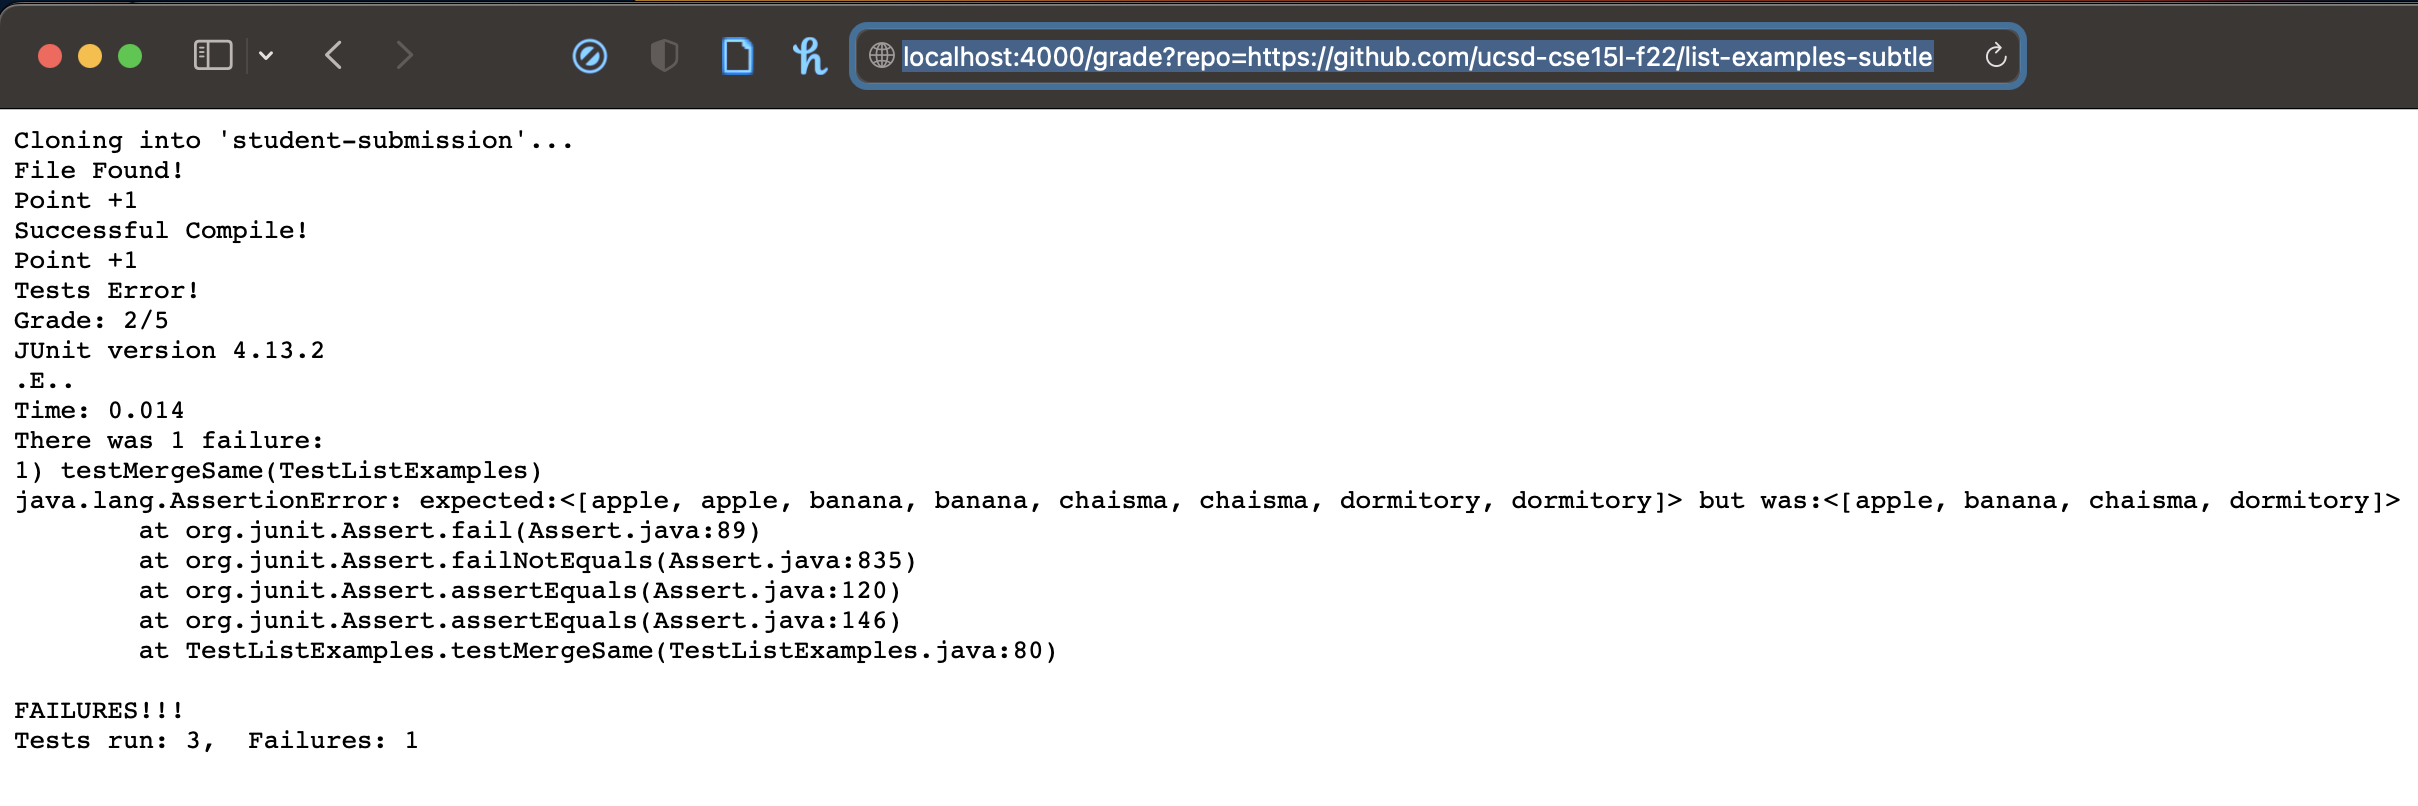
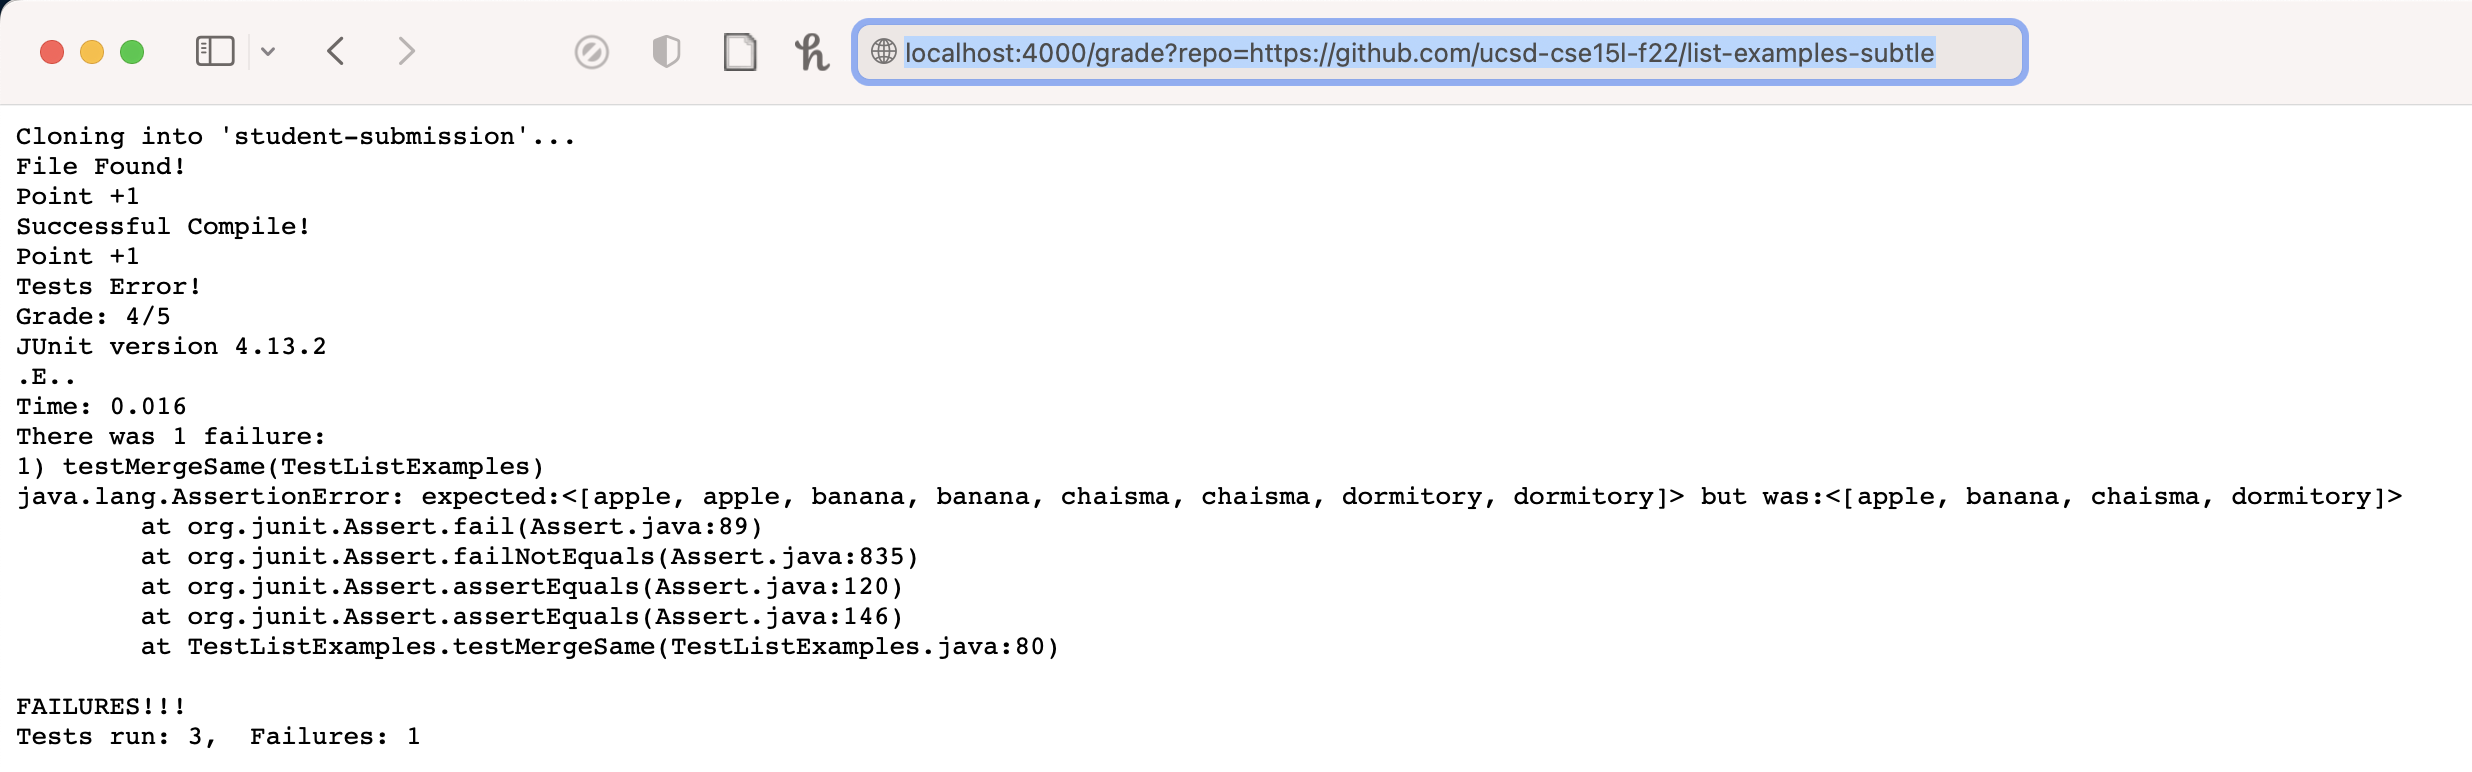
change

Changed region(s): [[0.0, 0.0, 1.0, 0.8705], [0.0, 0.8705, 0.1551, 0.9637]]

diff --git a/week-9-lab-report.md b/week-9-lab-report.md
@@ -50,7 +50,7 @@ then
     exit
 else
     FAILURE=$(grep "There " results.txt | grep -Eo "[1-3]")
-    PASSED="$((3 - $FAILURE))"
+    PASSED="$((5 - $FAILURE))"
     echo "Tests Error!"
     echo "Grade: $PASSED/5"
     cat results.txt
@@ -58,4 +58,130 @@ else
 fi
 
 ```
+
+### Example 1 
+
+Corrected Version:
+
+https://github.com/ucsd-cse15l-f22/list-methods-corrected
+
+![Image](lab5_1.png)
+
+### Example 2
+
+Compile Error:
+
+https://github.com/ucsd-cse15l-f22/list-methods-compile-error
+
+![Image](lab5_2.png)
+
+### Example 3
+
+Failed Tests:
+
+https://github.com/ucsd-cse15l-f22/list-examples-subtle
+
+![Image](lab5_3.png)
+
+## The Trace
+
+We will trace through the Example 3.
+
+For the first few lines:
+
+```
+
+rm -rf student-submission
+
+mkdir student-submission
+
+git clone $1 student-submission
+
+cp TestListExamples.java student-submission
+cd student-submission
+
+```
+
+We are just deleting the "student-submission" directory and recreating it so we can put a new student submission in to be graded. We also are copying our TestListExamples.java file into the folder which contains our tests for the student mission. Their stdout and stderr would both be empty. The return code, since these lines run wihout an error, would be 0.
+
+Moving on to these lines:
+
+```
+
+if [[ -f ListExamples.java ]];
+then 
+    echo "File Found!"
+    echo "Point +1"
+else
+    echo "File Not Found!"
+    echo "Grade: 0/5"
+    exit 1
+fi
+
+```
+
+Since this student submission contains the correctly named file (ListExamples.java), the if-statment is true. "File Found!" and "Point +1" would both be echoed. The else-part would not run because the file is found, which fulfills our if-statement condition. The stdout for each of the the echo command would be "File Found!" and "Point +1" accordingly. Their stderr would be empty. Their return codes would also be 0 since they were successful echoes.
+
+Moving on to the compiling stage:
+
+```
+
+javac -cp $CPATH *.java
+
+if [[ $? -eq 0 ]]
+then
+    echo "Successful Compile!"
+    echo "Point +1"
+else
+    echo "Compile Error!"
+    echo "Grade: 1/5"
+    exit 2
+fi
+
+```
+
+In this student-submission, the file compiled successfully. Hence, the return code would be 0. The stdout and stderr would both be empty since we are just compiling.
+
+Since we have successfully compiled the file, and the exit code is 0, the if-statment is true. "Successful Compile!" and "Point +1" would both be echoed. The stdout for each of the echo command would be what it is echoing. Their stderr would be empty. The return code for each echo command would be 0. Because the if-statment is true (from the successful compiling), the else-block would not be run.
+
+To the tests:
+
+```
+
+java -cp $CPATH org.junit.runner.JUnitCore TestListExamples > results.txt 
+
+if [[ $? -eq 0 ]]
+then
+    echo "All Tests Passed!"
+    echo "Grade: 5/5"
+    exit
+else
+    FAILURE=$(grep "There " results.txt | grep -Eo "[1-3]")
+    PASSED="$((5 - $FAILURE))"
+    echo "Tests Error!"
+    echo "Grade: $PASSED/5"
+    cat results.txt
+    exit 3
+fi
+
+```
+
+We are running the file with the java command, and are redirecting its stdout to results.txt, which contains what will be printed on the webpage (i.e. passed and failed tests). The stderr would be empty for the java command.
+
+Since this particular submission contains a failed test, the exit code of the java command would be nonzero, which makes the if-statment false. Thus, the then-block would not run. Instead, the else-block would run. 
+
+In the else-block, we are grepping the word "There " from its stdout because we want to know how many failtures there are. We will then pipe the grep results to another grep command which grep a number from the statement. The stderr for both of these grep commands would be empty. The stdout for the first grep command (before the pipe) would be "There was 1 failure." The stdout for the second grep command (after the pipe) would be "1". The return codes for both of these grep commands would be 0.
+
+We then have to calculate how many tests the submission has passed by subtracting the number of failed tests grepped in the previous line from the total number of tests, which, in this case, 3. Since the submission also has gotten points from the existence of the file and the successful compiling, we will add the 2 points back to the equation. Hence, we will subtract the number of failed tests from 5. 
+
+We will then echo "Test Error!" of which the stdout will of course be "Test Error!" and the stderr empty. Its return code would be 0.
+
+The next echo command will return the grade this submission gets. Its stdout will be "Grade: 4/5" because this student has failed only 1 of the tests written. Its stderr would be empty. The return code would be 0.
+
+We will then cat results.txt which can provide feedback to the students. The stdout would be the content of results.txt. The stderr would be empty. Its return code would be 0.
+
+We will then close off by exitting with an exit code of 3 as the file contains failed tests.
+
+
+
 
